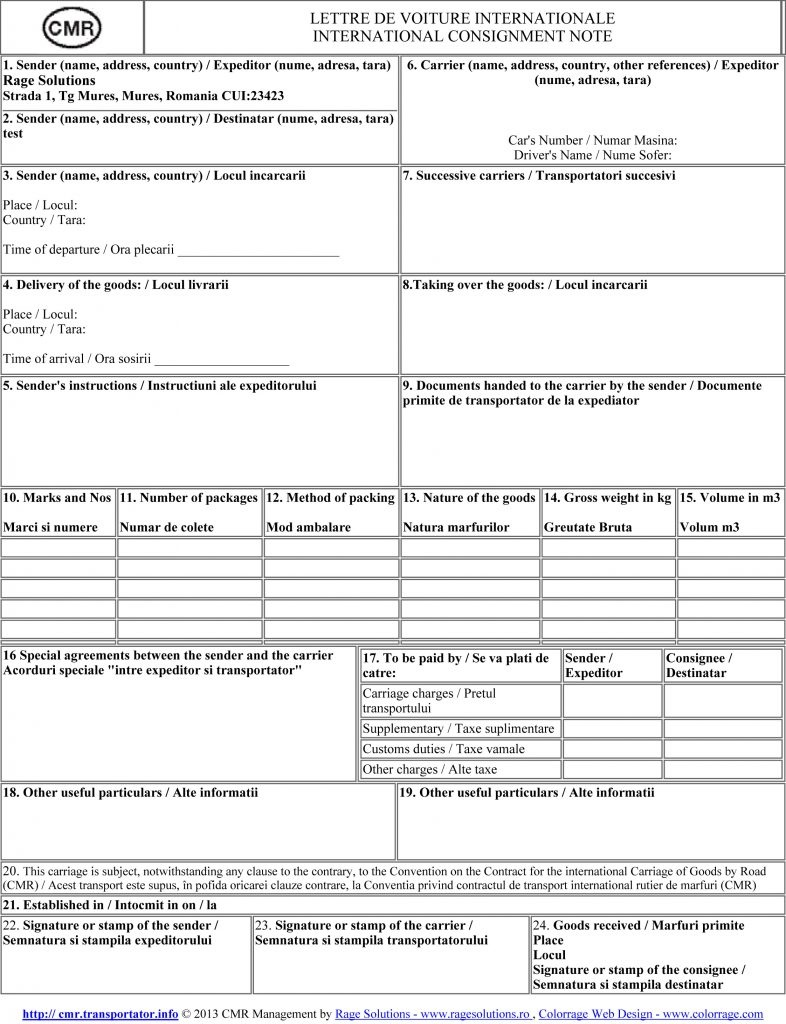
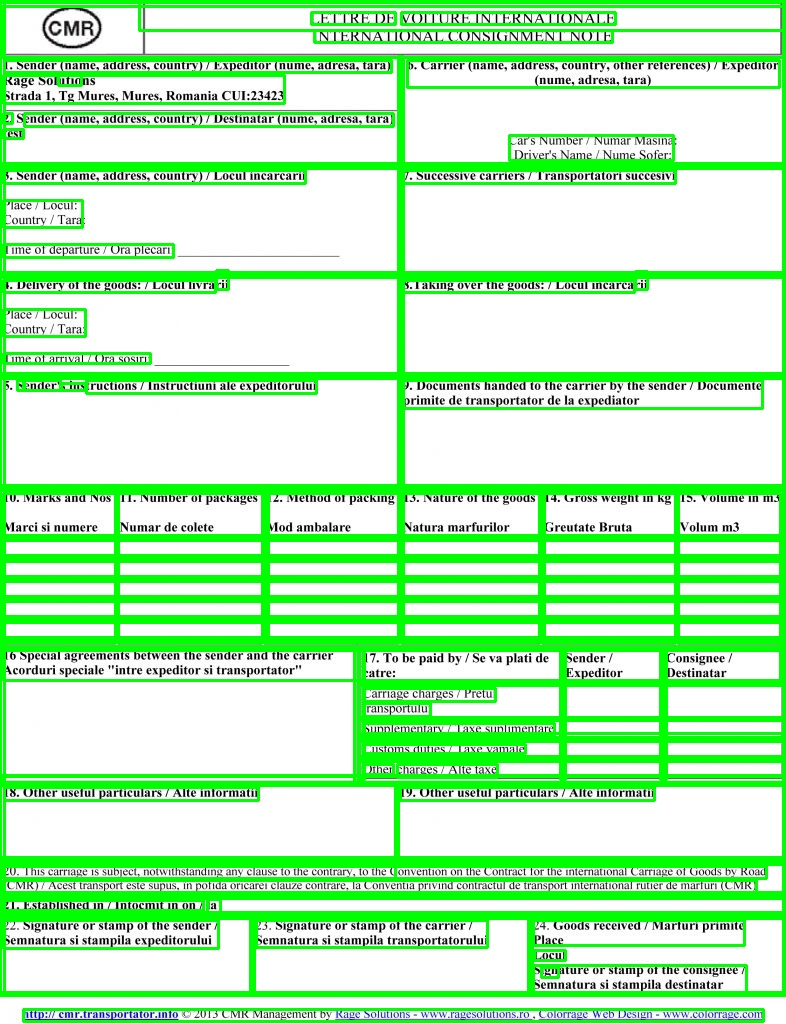
Update image foreach level

diff --git a/detect.py b/detect.py
@@ -2,7 +2,7 @@ import re
 import pytesseract
 from pytesseract import Output
 import cv2
-img = cv2.imread('image.jpg')
+img = cv2.imread('invoice-sample.jpg')
 ## Incase print all
 # d = pytesseract.image_to_data(img, output_type=Output.DICT)
 # n_boxes = len(d['level'])
@@ -55,15 +55,16 @@ print(d['level'])
 # n_boxes = len(d['level'])
 print ('level: ',n_boxes)
 for i in range(n_boxes):
-    if d['level'][i] == 3 :
+    if d['level'][i] == 1 :
         # print(d['level'][i])
     	(x, y, w, h) = (d['left'][i], d['top'][i], d['width'][i], d['height'][i])
     	cv2.rectangle(img, (x, y), (x + w, y + h), (0, 255, 0), 2)
 
 cv2.imshow('img', img)
 
-
+## _case_ use image.jpb
+## _case2_ use invoce-sample.jpg
 cv2.waitKey(0)
-cv2.imwrite('_8_level_case2_value3.jpg',img)
+cv2.imwrite('_8_level_case_value1.jpg',img)
 
 
